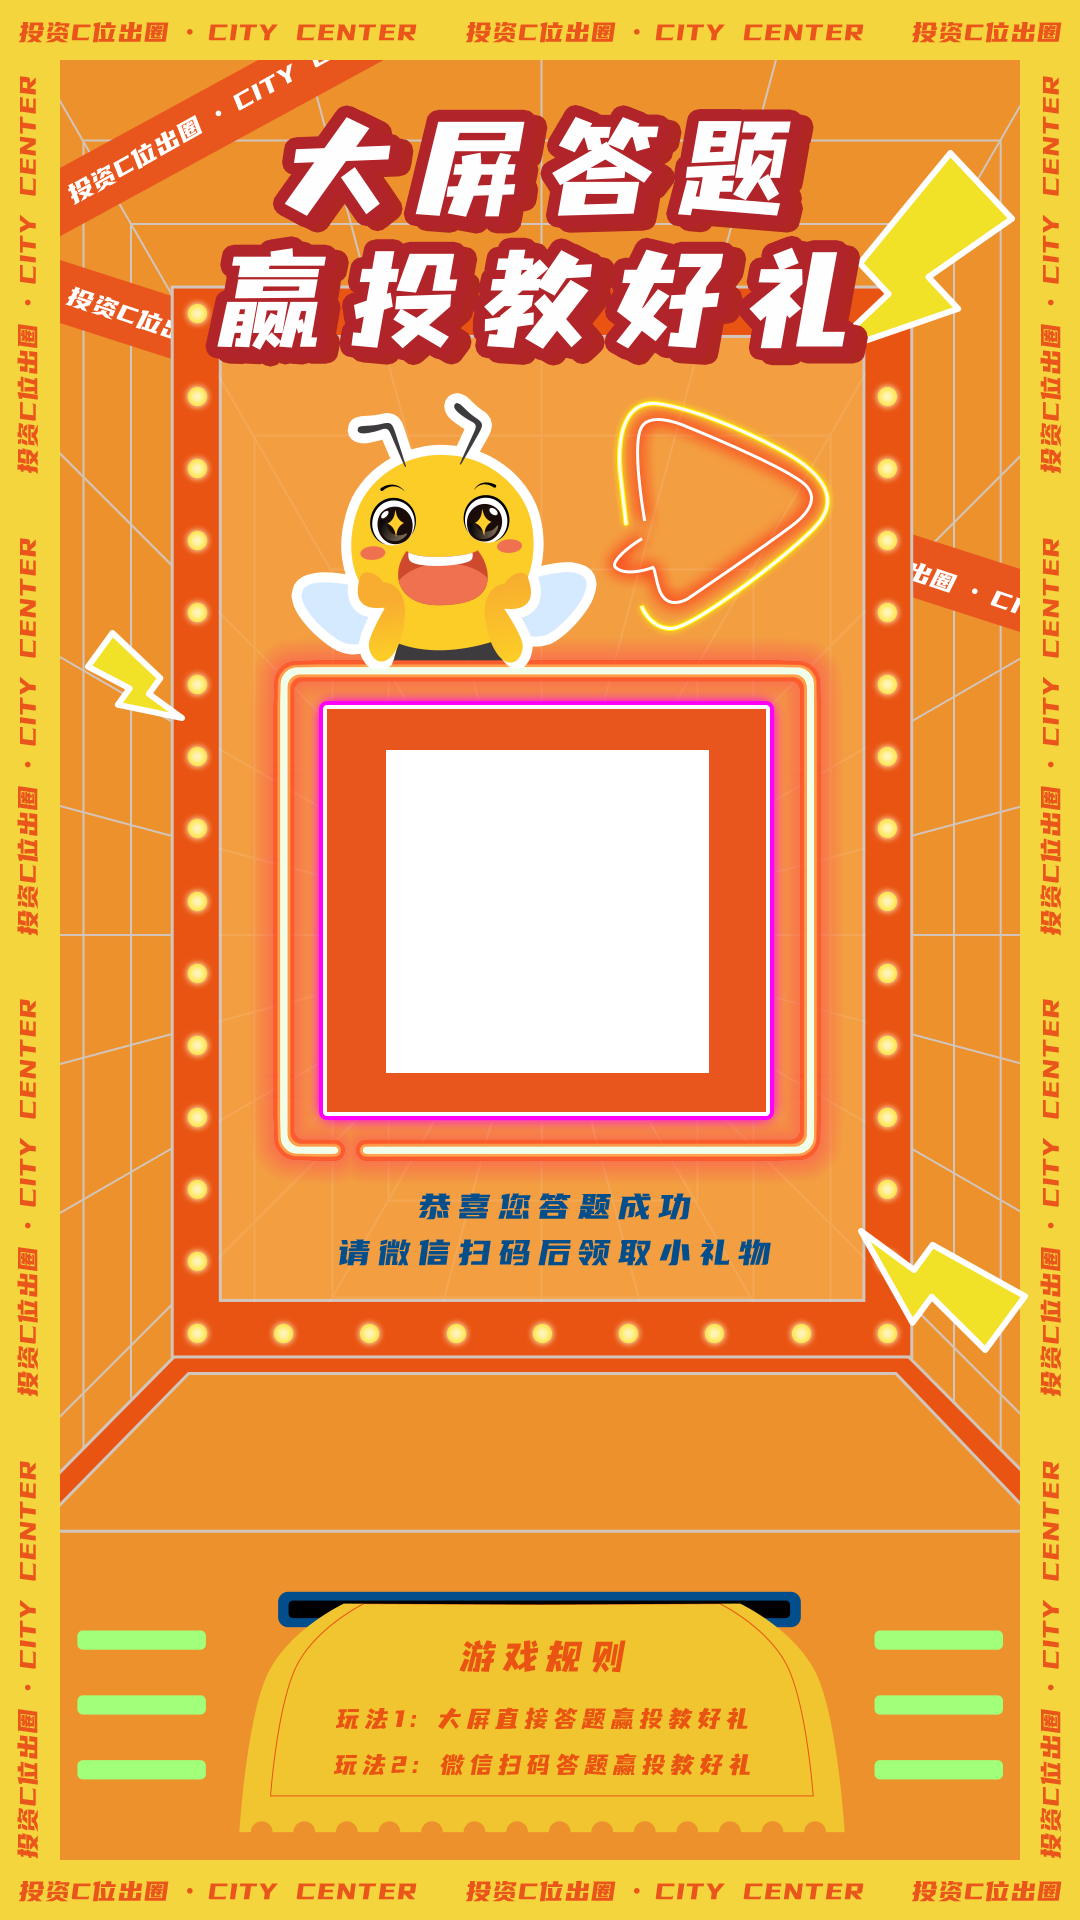
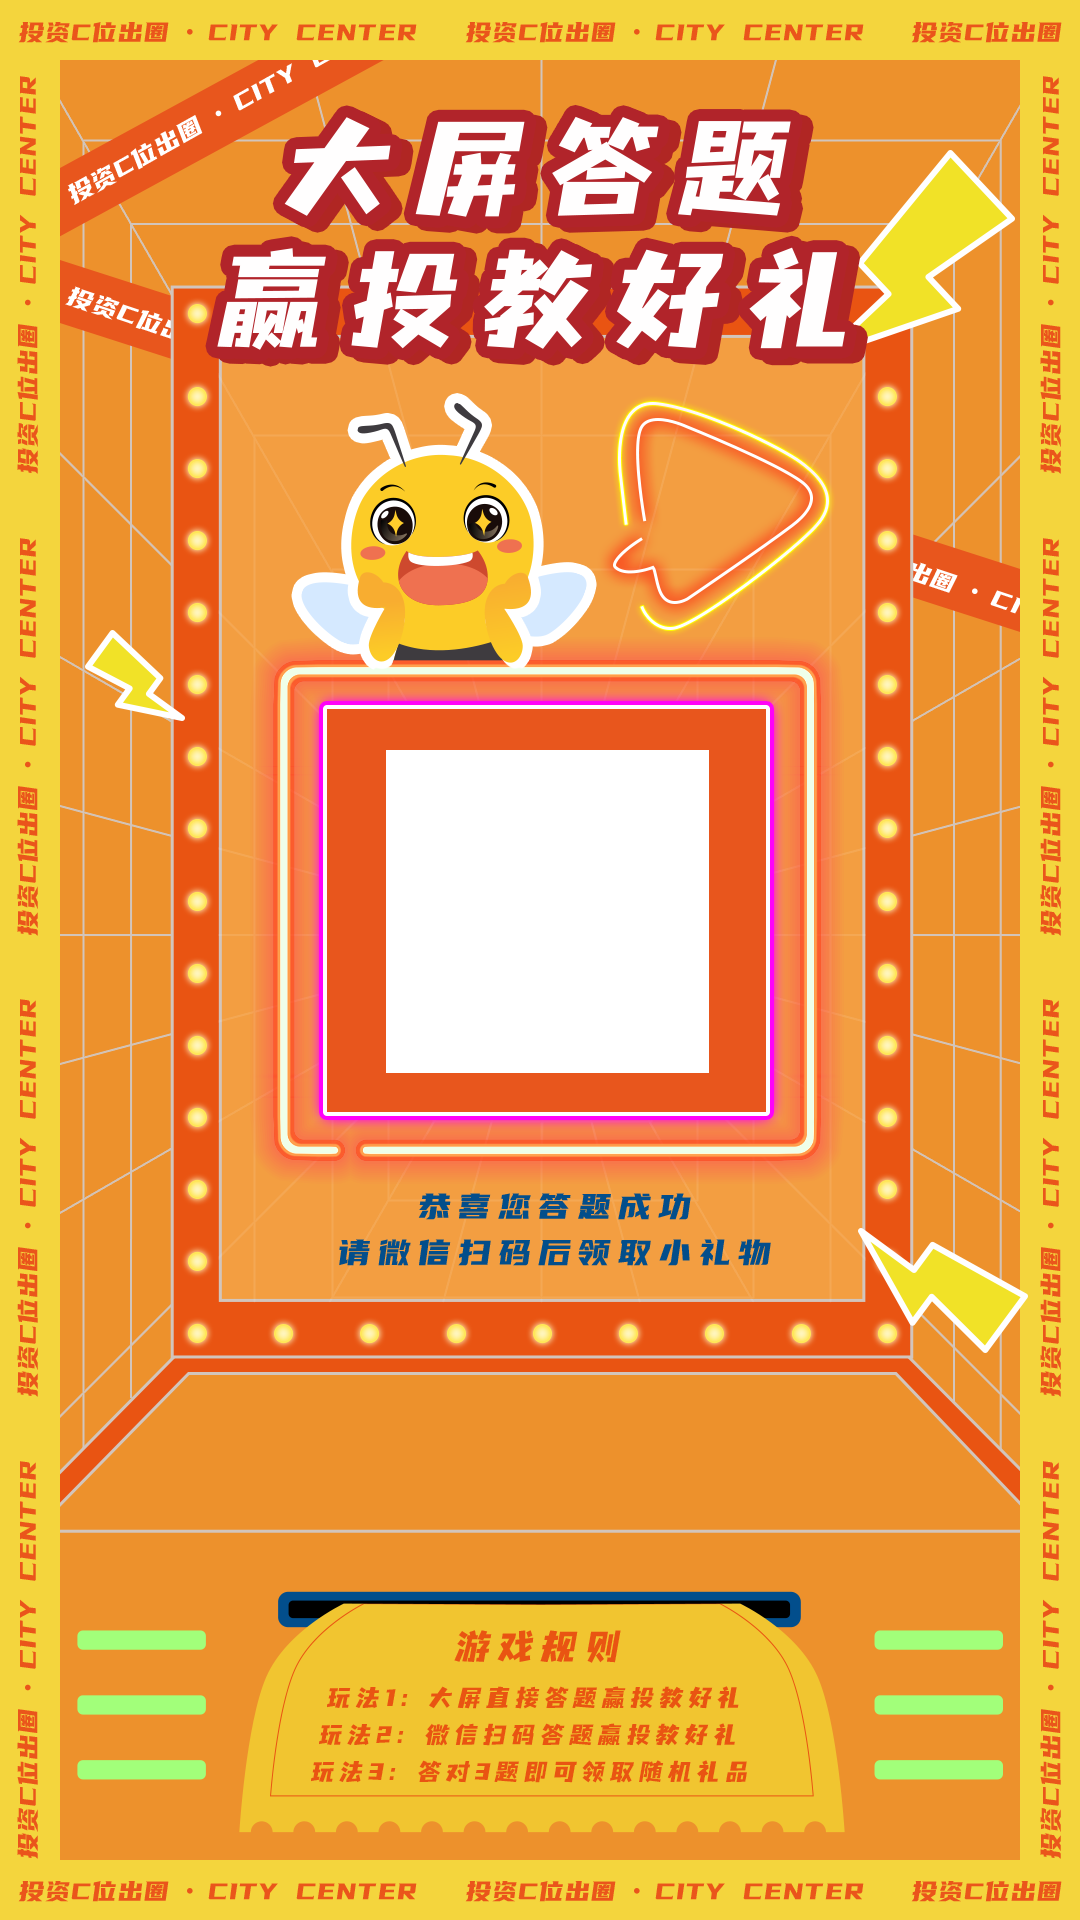
update

Changed region(s): [[0.275, 0.8438, 0.7028, 0.9375]]

diff --git a/projects/2022/zhongjin/zhongjin/src/App.vue b/projects/2022/zhongjin/zhongjin/src/App.vue
@@ -30,6 +30,7 @@ let wrongCode = ref(false);
 const MaxWordLength = ref(7);
 let actionId = ref(null);
 let openId = ref("");
+const errorAnswer = ref(0);
 
 const mSensingDevice = SensingDevice.getInstance()
 
@@ -73,6 +74,7 @@ const clickButton2 = () => {
 
 // 返回首页
 const returnHome = () => {
+  errorAnswer.value = 0
   clearAndStartTimer();
   returnToLogicType1();
 }
@@ -86,6 +88,7 @@ const continuer = () => {
 // 随机选取题目
 const goAnswerQuestion = () => {
   hasWrong.value = false;
+  errorAnswer.value = 0
   realQuestionIndex.value = 0;
   qrCodeImage.value = "";
   realQuestionList.value = JSON.parse(JSON.stringify(totalQuestionList.value))
@@ -265,18 +268,44 @@ const selectAnswer = (answer) => {
       }, 1000);
     } else {
       // console.log("全部答对");
-      if (!hasWrong.value) {
+      if (errorAnswer.value <= 2) {
         clearInterval(timer.value);
         setTimeout(() => {
           allRightShowQrcode();
         }, 1000)
       }
+      else if (errorAnswer.value >= 1 && realQuestionIndex.value == questionNeedLength.value) {
+        showMsg.value = "您已经答错" + errorAnswer.value + "道题了，请重新答题";
+        setTimeout(function () {
+          showMsg.value = "";
+        }, 2000)
+      }
     }
   } else {
     // console.log("答错了");
+    errorAnswer.value++;
     hasWrong.value = true;
-    if (realQuestionIndex.value != questionNeedLength.value - 1) {
-      showMsg.value = "您已经答错了，继续答题将不会获得奖品，是否继续?";
+    if (realQuestionIndex.value == 4) {//是最后一个
+      if (errorAnswer.value >= 2) {
+        showMsg.value = "您已经答错" + errorAnswer.value + "道题了，请重新答题";
+        setTimeout(function () {
+          showMsg.value = "";
+        }, 2000)
+      } else {
+        clearInterval(timer.value);
+        setTimeout(function () {
+          allRightShowQrcode();
+        }, 1000)
+      }
+    } else {
+      if (errorAnswer.value >= 3) {
+        showMsg.value = "您已经答错" + errorAnswer.value + "道题了，继续答题将不会获得奖品，是否继续?";
+        setTimeout(function () {
+          showMsg.value = "";
+        }, 2000)
+      } else {
+        return
+      }
     }
   }
 };
@@ -448,7 +477,7 @@ onMounted(() => {
             return answer.content.length <= MaxWordLength.value;
           });
         });
-        console.log('totalQuestionList.value',totalQuestionList.value)
+      console.log('totalQuestionList.value', totalQuestionList.value)
     });
 });
 </script>
@@ -481,7 +510,7 @@ onMounted(() => {
     <img v-show="logicType == 3" src="./assets/imgs/bg-above.png" alt="">
 
     <!-- 返回按钮 -->
-    <div v-show="logicType == 2 && !qrCodeImage && !hasWrong || logicType == 3" @click="returnHome" class="gohome">
+    <div v-show="logicType == 2 && !qrCodeImage || logicType == 3" @click="returnHome" class="gohome">
       <img src="./assets/imgs/returnHome.png" alt="">
     </div>
 
@@ -511,7 +540,7 @@ onMounted(() => {
           <img src="./assets/imgs/returnHome.png" alt="">
         </div>
       </template>
-      
+
       <!-- 题目信息 -->
       <template v-else>
         <!-- 题号&题目 -->
@@ -522,11 +551,10 @@ onMounted(() => {
         <!-- 选项 -->
         <div class="questionAnswer">
           <div v-for="(answer, answerindex) of realQuestionList[realQuestionIndex]
-          .questionItems" :key="answerindex" class="questionOption" @click="selectAnswer(answer)">
+            .questionItems" :key="answerindex" class="questionOption" @click="selectAnswer(answer)">
 
             <!-- 选项内容 -->
-            <OptionBoxView :answerListData="{ answer, realQuestionList, realQuestionIndex }"
-              :answerindex="answerindex" />
+            <OptionBoxView :answerListData="{ answer, realQuestionList, realQuestionIndex }" :answerindex="answerindex" />
           </div>
         </div>
       </template>
@@ -534,7 +562,7 @@ onMounted(() => {
 
     <!-- 继续答题&重新答题按钮 -->
     <RestartAnswerButtonView
-      :restartAnswerData="{ logicType, realQuestionList, realQuestionIndex, qrCodeImage, hasWrong, questionNeedLength, }"
+      :restartAnswerData="{ logicType, realQuestionList, realQuestionIndex, qrCodeImage, hasWrong, questionNeedLength, errorAnswer }"
       :continuer="continuer" :goAnswerQuestion="goAnswerQuestion" :chooseRight="chooseRight" />
   </div>
 </template>

diff --git a/projects/2022/zhongjin/zhongjin_m/paiyangji-m.html b/projects/2022/zhongjin/zhongjin_m/paiyangji-m.html
@@ -26,8 +26,8 @@
     <script src="/js/troncell_wx2.js"></script>
     <script src="/js/TweenMax.min.js"></script>
 
-    <!-- <script src="//cdn.bootcss.com/eruda/1.5.2/eruda.min.js"></script>
-  <script>eruda.init();</script> -->
+     <script src="//cdn.bootcss.com/eruda/1.5.2/eruda.min.js"></script>
+  <script>eruda.init();</script>
   </head>
   <style>
     body {
@@ -257,7 +257,7 @@
 
         <!-- 重新答题 -->
         <div
-          v-show="realQuestionList.length&&(realQuestionList[realQuestionIndex].hasSelected&&(!chooseRight&&realQuestionIndex!=4||errorAnswer>=2&&realQuestionIndex==4))"
+          v-show="realQuestionList.length&&(realQuestionList[realQuestionIndex].hasSelected&&(!chooseRight&&realQuestionIndex!=4||errorAnswer>=3&&realQuestionIndex==4))"
           class="continuerBtn"
           @click="restart"
         >
@@ -287,11 +287,12 @@
       computed: {
         chooseRight: function () {
           if (this.realQuestionList[this.realQuestionIndex]) {
-            return this.realQuestionList[
-              this.realQuestionIndex
-            ].questionItems.find(function (item) {
-              return item.isAnswer;
-            }).hasSelected;
+            const answer = this.realQuestionList[this.realQuestionIndex].questionItems.find(item => item.isAnswer);
+            console.log('answer',answer);
+            if(!answer){
+              console.log(this.realQuestionList[this.realQuestionIndex].questionItems)
+            }
+            return answer.hasSelected;
           }
         },
       },
@@ -366,6 +367,8 @@
                     }),
                   };
                 });
+
+              console.log("_this.realQuestionList", _this.realQuestionList);
 
               _this.realQuestionList.push({
                 id: 99,
@@ -470,7 +473,7 @@
                 _this.realQuestionIndex++;
               }, 1000);
             } else {
-              if (_this.errorAnswer < 2) {
+              if (_this.errorAnswer <= 2) {
                 setTimeout(function () {
                   _this.GetAwardsByUserAndAction();
                 }, 1000);
@@ -481,7 +484,7 @@
             _this.errorAnswer++;
 
             if (_this.realQuestionIndex == 4) {
-              if (_this.errorAnswer >= 2) {
+              if (_this.errorAnswer > 2) {
                 return;
               } else {
                 setTimeout(function () {
@@ -489,7 +492,7 @@
                 }, 1000);
               }
             } else {
-              if (_this.errorAnswer >= 2) {
+              if (_this.errorAnswer > 2) {
                 _this.showMsg =
                   "您已经答错" +
                   _this.errorAnswer +

diff --git a/projects/2022/zhongjin/zhongjin/src/components/RestartAnswerButtonView.vue b/projects/2022/zhongjin/zhongjin/src/components/RestartAnswerButtonView.vue
@@ -13,7 +13,7 @@ const props = defineProps(['restartAnswerData', 'chooseRight', 'continuer', 'goA
             !chooseRight &&
             restartAnswerData.realQuestionIndex != 4 &&
             !restartAnswerData.qrCodeImage &&
-            restartAnswerData.realQuestionIndex != restartAnswerData.questionNeedLength - 1
+            restartAnswerData.realQuestionIndex != restartAnswerData.questionNeedLength
         " class="continuerBtn" @click="continuer()">
             <img src="../assets/imgs/continue.png" style="width: 100%" />
         </div>
@@ -25,7 +25,7 @@ const props = defineProps(['restartAnswerData', 'chooseRight', 'continuer', 'goA
             !restartAnswerData.qrCodeImage &&
             restartAnswerData.realQuestionIndex != 4 &&
             (!chooseRight ||
-                (restartAnswerData.hasWrong && restartAnswerData.realQuestionIndex == restartAnswerData.questionNeedLength - 1))
+                (restartAnswerData.errorAnswer && restartAnswerData.realQuestionIndex == restartAnswerData.questionNeedLength))
         " class="restartBtn" @click="goAnswerQuestion()">
             <img src="../assets/imgs/restart.png" style="width: 100%" />
         </div>

diff --git a/projects/2023/longyan/paiyangji/src/App.vue b/projects/2023/longyan/paiyangji/src/App.vue
@@ -393,6 +393,7 @@ const allRightShowQrcode = () => {
     loading.value = false;
     console.log('outerId', response.data.result.outerId)
     outerId.value = debug.value ? 110 : response.data.result.outerId;
+    console.log('outerId.value',outerId.value)
     mSensingDevice.doDropCargo(outerId.value)
   })
 
@@ -543,7 +544,7 @@ const jsCallbackByAndroid = (action, jsonData) => {
   if (action && action == "dropCargoDone") {
     isShowReturnBtn.value = true;
   } else {
-    alert(action);
+    // alert(action);
     setTimeout(() => {
       mSensingDevice.navigateTo('WelcomePage');
     }, 15000)
